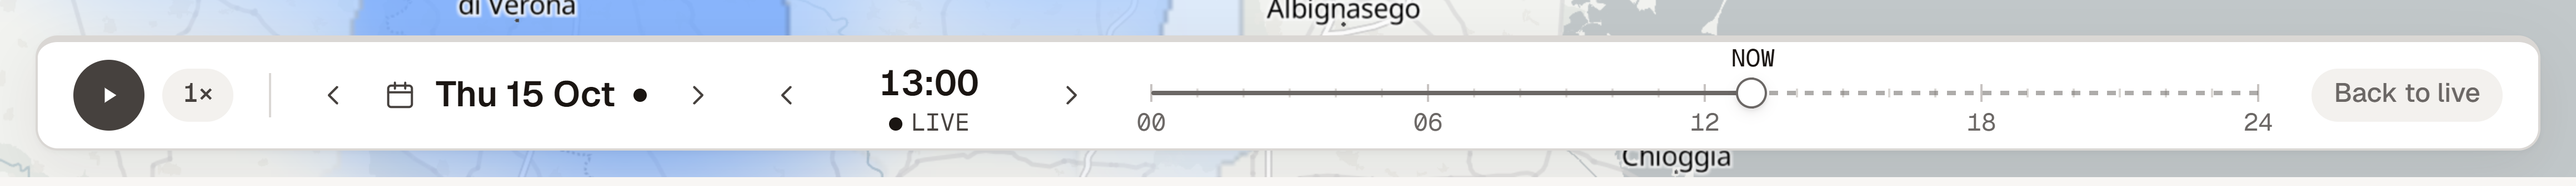
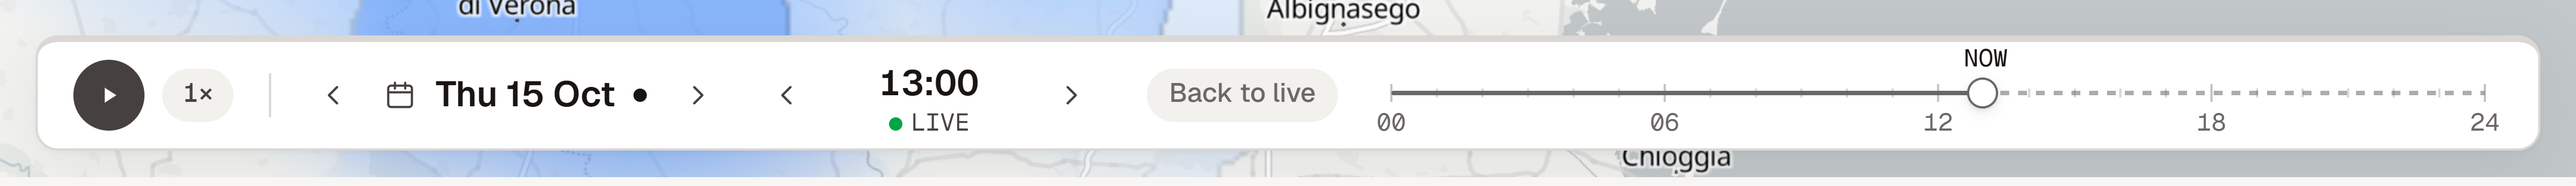
Timebar: Back to live beside the time; green Live dot
Back to live moves from the far right to right after the time, with a
little extra room after the time's arrow: it is where the pointer is
after changing the day or the time, and it reads with the mode line.
It stays in place (off in Live), so the track never changes width. The
Live dot under the time is the brand green, like the button.

Case-study captures regenerated with the new bar.

diff --git a/src/components/Timebar/Timebar.tsx b/src/components/Timebar/Timebar.tsx
@@ -165,6 +165,14 @@ export function Timebar({
       {mode !== 'live' && offset && <span className={styles.offset}>{offset}</span>}
     </span>
   )
+  // Back to live beside the time (designer, 2026-10-26): it is where the pointer already is after changing the day
+  // or the time, and it reads with the mode line ("ARCHIVE −24h · Back to live"). Always in place, off in Live, so
+  // the track never changes width.
+  const backToLive = (
+    <span className={styles.live}>
+      <LiveViewButton status={mode === 'live' ? 'off' : 'on'} onClick={onNow} />
+    </span>
+  )
 
   const minuteFromPointer = (e: PointerEvent) => {
     const r = trackRef.current!.getBoundingClientRect()
@@ -316,7 +324,12 @@ export function Timebar({
         </button>
       </div>
 
-      {daily && <span className={styles.timeStack}>{modeLine}</span>}
+      {daily && (
+        <>
+          <span className={styles.timeStack}>{modeLine}</span>
+          {backToLive}
+        </>
+      )}
 
       {!daily && (
         <>
@@ -379,6 +392,8 @@ export function Timebar({
               <Icon name="chevron-right" size={16} />
             </button>
           </div>
+
+          {backToLive}
 
           <div className={styles.trackWrap}>
             <div
@@ -443,8 +458,6 @@ export function Timebar({
       )}
 
       {daily && <span className={styles.spacer} />}
-
-      <LiveViewButton status={mode === 'live' ? 'off' : 'on'} onClick={onNow} />
     </section>
   )
 }

diff --git a/src/components/Timebar/Timebar.module.css b/src/components/Timebar/Timebar.module.css
@@ -222,11 +222,19 @@
   text-transform: none;
 }
 
+/* Live in green (designer, 2026-10-26): the same green as Back to live, which brings you here. */
 .liveDot {
   width: 6px;
   height: 6px;
   border-radius: var(--radius-pill);
-  background: var(--text-primary);
+  background: var(--accent-default);
+}
+
+/* A little more room after the time's › than the bar's gap: the two buttons do very different things. */
+.live {
+  flex: none;
+  display: flex;
+  margin-left: 6px;
 }
 
 .spacer {

diff --git a/DESIGN_QA.md b/DESIGN_QA.md
@@ -90,6 +90,7 @@ Scostamenti da Figma introdotti di proposito dalle correzioni di [UX_REVIEW.md](
 | Timebar compatta (22 ottobre) | Tre righe, circa 150px: controlli e giorni · chip 1x/2x/4x · "Time interval" e traccia con le ore 00/06/12/18/24 | Due righe, 84px (61 sui dati giornalieri): controlli, velocità e giorni · traccia a tutta larghezza con 00 e 24 alle estremità e tacche più lunghe ogni 6 ore | Decisione del designer (concept A): la timeline era troppo ingombrante. La velocità è un solo pulsante che passa a 1×, 2×, 4×; l'intervallo lo dicono le tacche. Pannello e Rail ora arrivano 10px sopra la timebar |
 | Timebar in una riga (24 ottobre) | Due righe, 84px: ‹ ▶ ›, velocità, badge di modalità, data, Back to live, 8 chip dei giorni · traccia | Una riga, 52px: ▶ e velocità · il giorno grande ("Thu 15 Oct", 16px semibold) con ‹ › per il giorno prima e dopo e il calendario (i DayChip in un popover sopra la barra) · l'ora (13:00 / 12:55) · la traccia delle 24 ore con NOW sopra e 00 06 12 18 24 sotto · Back to live. Tolti il badge (lo dice la ModePill) e i ‹ › delle ore (frecce da tastiera e trascinamento) | Decisione del designer: la timeline restava ingombrante; deve dire bene il giorno e dare Play, giorno prima / dopo, calendario e 24 ore. Pannello e Rail arrivano 10px sopra la barra. Interfaccia opaca, nessuna trasparenza |
 | Timeline: modalità, ora a mano, nowcast (24 ottobre) | Una riga senza la modalità: cambiava solo la tinta | Sotto l'ora torna la modalità in parole con lo scarto da adesso ("FORECAST +5min", "ARCHIVE −24h", "LIVE"), nel colore della modalità. L'ora è un campo: si scrive ("12:47", "1247", "9") e con Invio va all'istante più vicino del dato (12:45 a 5 minuti, 13:00 orario); ↑ ↓ un passo, Pagina su / giù un'ora. ‹ › accanto all'ora: un passo, e tenuti premuti scorrono (un passo ogni 90 ms dopo 400 ms). Sulla traccia Pagina su / giù passano da giorni a ore; i giorni restano su Maiusc + frecce e ‹ › del giorno. Nowcast: Rainfall rate e Lightning in previsione vanno a 5 minuti per le prime 2 ore (estrapolazione del radar e della rete fulmini, fonte "RadarCast nowcast" / "Lightning nowcast"), poi orari col modello | Decisione del designer: senza la parola il colore sembrava cambiare a caso; avanzare di 5 in 5 col pallino era una tortura. I nowcast a 5 minuti sono come funzionano i prodotti radar veri; le previsioni dei modelli restano orarie |
+| Back to live accanto all'ora (26 ottobre) | In fondo a destra della timeline, dopo la traccia | Subito dopo l'ora, con 6px in più di spazio dalla sua ›; sempre al suo posto (spento in Live), così la traccia non cambia larghezza. Il puntino di "LIVE" sotto l'ora è verde (accent/default, 3,2:1 come elemento non testuale) | Decisione del designer: dopo aver cambiato giorno o ora il puntatore è già lì, invece di attraversare tutta la barra; "ARCHIVE −24h · Back to live" si legge come una frase, come nella ModePill. Il verde lega "LIVE" al pulsante che ci riporta |
 | Layer sovrapposti, concept A (24 ottobre) | Un dato alla volta; nell'originale un interruttore per prodotto | Un dato principale (campo colorato ed etichette piene) più fino a 3 sovrapposizioni come simboli: fulmini come saette accanto al puntino (più grandi con più fulmini), vento come frecce verso dove soffia (più lunghe se più forte), tutto il resto come piccoli valori bordati sotto il puntino, piazzati senza sovrapporsi, i più alti prima. I simboli stanno sotto le etichette del dato principale. Ogni voce del pannello ha un pulsante "layers" a destra (verde e cerchiato quando è sulla mappa; spento con 3 già attive, con il motivo nel tooltip). "On the map" in cima al pannello in ogni gruppo: il principale pieno, le sovrapposizioni bordate con ×, "no data now" tratteggiato quando non hanno dati in quell'istante; un nome apre il suo gruppo. Puntino verde sui pulsanti della Rail dei gruppi con dati sulla mappa. La legenda aggiunge una riga per sovrapposizione (simbolo, nome, unità, come leggerlo, fonte); la card i loro valori nel punto; il nome accessibile di ogni stazione anche. Cambia la regola 10: aprire un gruppo mostra il suo elenco e non cambia più il dato sulla mappa | Decisione del designer, concept A su B: due campi colorati sovrapposti non si leggono, e card, legenda e grafico dovrebbero chiedere di quale layer parlano. Con la regola 10 di prima, sfogliare i gruppi per costruire le sovrapposizioni cambiava il dato principale |
 | Grafico e tabella (24 ottobre) | Nell'originale: TABLE e date di inizio e fine nel pannello di ogni prodotto | "Chart & table" in fondo alla card apre un pannello sopra la timeline, dal bordo del pannello livelli a quello della timeline: la stazione selezionata nel dato corrente, da −24 h a +5 giorni rispetto all'istante selezionato. Barre nei colori delle classi per le quantità a chiazze (pioggia, neve), una linea su valori tondi per le grandezze continue; la previsione dopo NOW più chiara su fondo bg/forecast; l'ora selezionata contornata. Un clic su una barra o su una riga sposta la timeline lì. Tabella con ora, valore, modalità con scarto, fonte. Totale e massimo (o minimo, massimo e media) in alto a destra. Download CSV | Richiesta del designer: "la pioggia a Belluno nelle ultime 24 ore, ora per ora". Segue la stazione selezionata finché è aperto. Dati: la pioggia è ora un evento che culmina attorno ad adesso, a rovesci, perché le serie restassero credibili (28 mm in 24 h a Belluno invece di 433) |
 | Servizi aggiuntivi, account, strumenti mappa (24 ottobre) | Nell'originale: Servizi Aggiuntivi, Supporto operativo, impostazioni, aiuto, uscita nel menu a sinistra; ricerca, livelli, posizione, righello, mappa base, zoom sulla mappa | In alto a destra, accanto alla campanella e uguali a lei: "Additional services" (Operational support, Reports, Data download, API access) e "Account" (Settings, Help and support, Sign out). Sopra lo zoom, nella stessa scatola, misura, mappa di base e screenshot. Ogni voce spiega con un Toast che non è nel prototipo | Fuori dalla Rail, che resta dei soli dati. Le coordinate del cursore dell'originale non ci sono: la card mostra quelle del punto |

diff --git a/design-notes/componenti.md b/design-notes/componenti.md
@@ -179,6 +179,7 @@ Altre scelte: "adesso" simulato = Thu 15 Oct 2026 13:00; i livelli a 5 minuti si
 - **Timebar in una riga (2026-10-24):** 52px. ▶ e velocità · ‹ giorno › con il giorno grande (16px semibold) che apre il calendario (DayChip in un popover; Esc o clic fuori per chiudere) · l'ora · la traccia delle 24 ore (NOW sopra, 00 06 12 18 24 sotto) · Back to live. Escono il badge di modalità, i ‹ › delle ore e la DayStrip. Da riportare in Figma: Timeline in una riga, popover del calendario.
 - **Timeline, seconda passata (2026-10-24):** sotto l'ora la modalità in parole con lo scarto da adesso (mono 11, colore `--mode-text`, icona della modalità o il puntino del Live). L'ora è un campo di testo (16/600, 64 di larghezza) con ‹ › ai lati che scorrono se tenuti premuti. Tasti: ↑ ↓ e ← → un passo, Pagina su / giù un'ora, Maiusc + frecce un giorno.
 - **Nowcast (2026-10-24):** `nowcast: { minutes: 120, stepMin: 5, source }` su rain-rate-fc e lightning-fc: nelle prime 2 ore dopo "adesso" la previsione va a 5 minuti, con la sua fonte; poi è oraria. `stepOf(layer, sel)` dipende dall'istante.
+- **Back to live accanto all'ora (2026-10-26):** ordine della Timebar: Play e velocità · giorno · ora con la modalità · Back to live · traccia. Puntino di LIVE verde.
 - **Sovrapposizioni, concept A (2026-10-24):** src/state/overlays.ts (tipo per flusso: saetta per i fulmini, freccia per il vento, valore per il resto; valori per stazione nell'istante, sul gemello quando serve). MapView `overlays`, LayerItem `onToggleOverlay`/`overlay`/`overlayFull`, LayerPanel `onMap`, OnTheMap (nuovo), RailButton `onMap`, Legend `overlays`, Readout `extra`. Regola 10 cambiata: `selectGroup` cambia solo il gruppo aperto; i passaggi al gemello e Play tengono il gruppo aperto. Icone nuove: stack, bolt.
 - **Grafico e tabella (2026-10-24):** SeriesPanel (src/components/SeriesPanel), dati da `stationSeries` in src/data/index.ts (ogni punto prende il livello del flusso che ha dati in quell'istante, quindi la serie attraversa "adesso"). I valori delle stazioni usano ora un fattore fisso per livello (`scaleOf`) e la pioggia è un evento centrato su adesso (`rainPulse`). Componenti nuovi anche TopMenu e MapTools; icone nuove chart, table, download, apps, user, help, sign-out, support, report, api, ruler, camera, basemap.
 - **Allarmi (2026-10-24):** dati in src/data/alerts.ts (5 allarmi: dato, istante, stazione, emissione, scadenza). AlertPanel sotto la campanella, AlertCard per ogni allarme; regola `showInstant` per aprirne uno sulla mappa. Token nuovi: status/danger-strong · -soft, status/warning-strong · -soft, status/advisory · -strong · -soft (giallo). Icona nuova: settings. Lo stato letto / non letto vive solo nella sessione.
